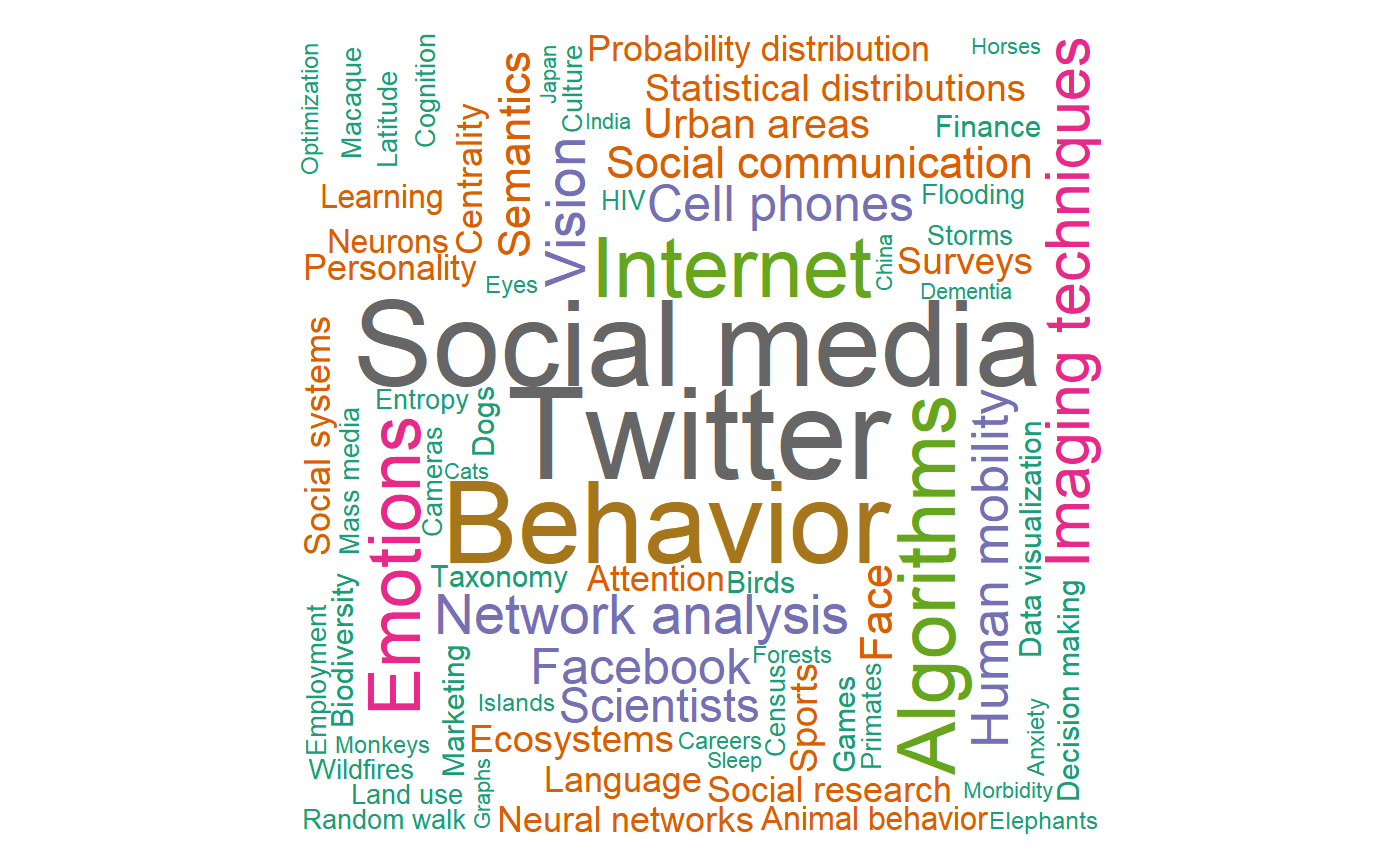
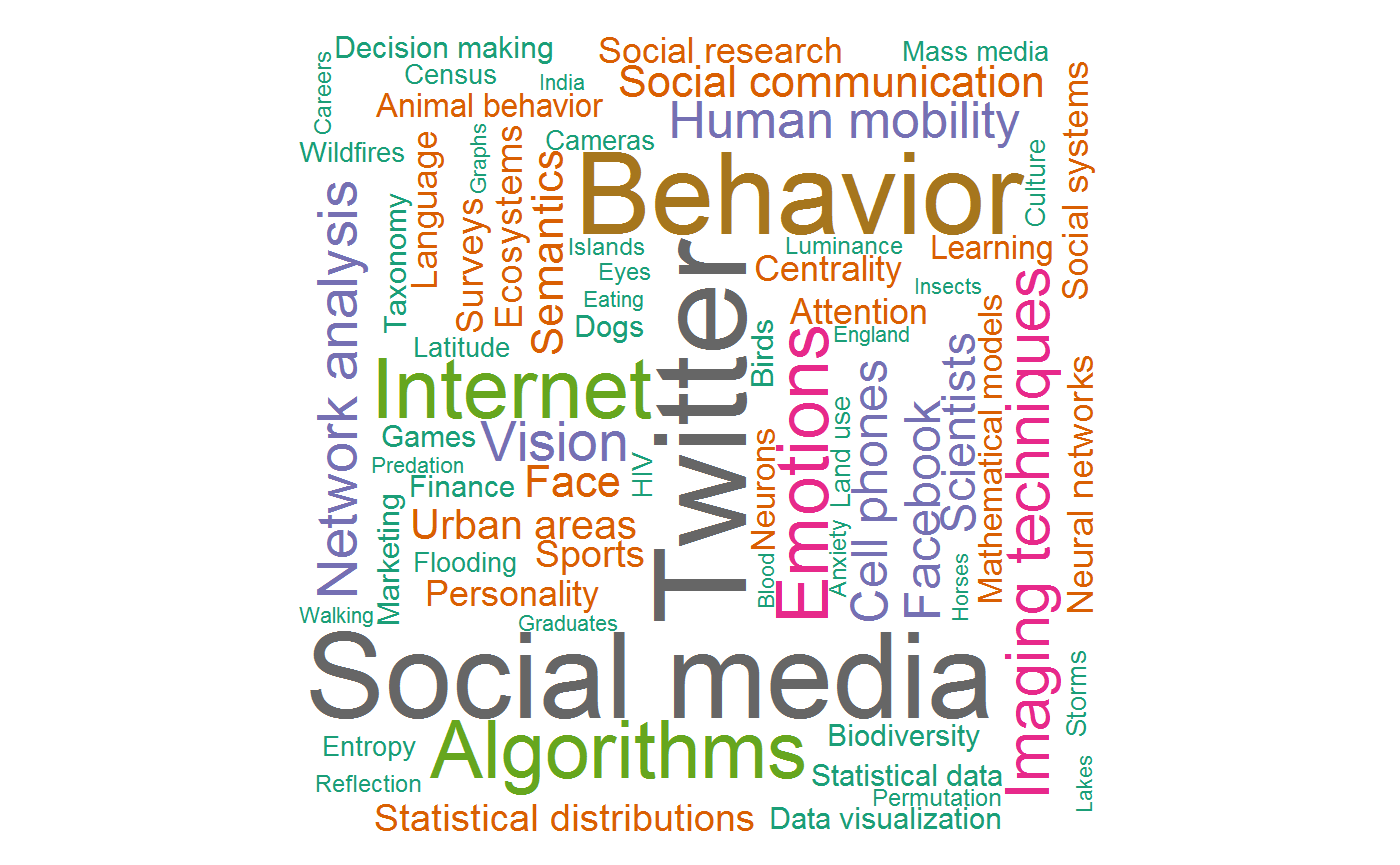
rebuild package site

Changed region(s): [[0.215, 0.0312, 0.7986, 0.9676]]

diff --git a/docs/articles/flickr_in_research.html b/docs/articles/flickr_in_research.html
@@ -81,9 +81,7 @@
   <div class="col-md-9 contents">
     <div class="page-header toc-ignore">
       <h1>Flickr in research</h1>
-                        <h4 class="author">Laura J. Graham</h4>
             
-            <h4 class="date">11/07/2019</h4>
       
       <small class="dont-index">Source: <a href="https://github.com/nfox29/photosearcher/blob/master/vignettes/flickr_in_research.Rmd"><code>vignettes/flickr_in_research.Rmd</code></a></small>
       <div class="hidden name"><code>flickr_in_research.Rmd</code></div>
@@ -101,7 +99,7 @@
 <a class="sourceLine" id="cb1-4" title="4"><span class="st">  </span></a>
 <a class="sourceLine" id="cb1-5" title="5"><span class="st">  </span><span class="kw">mutate</span>(<span class="dt">keywords =</span> <span class="kw">map_chr</span>(subject, get_kw),</a>
 <a class="sourceLine" id="cb1-6" title="6">         <span class="dt">subjects =</span> subject_level_<span class="dv">1</span>)</a></code></pre></div>
-<p>There are a total of 187 papers with the keyword <code>flickr</code> in the PLoS journals.</p>
+<p>There are a total of 188 papers with the keyword <code>flickr</code> in the PLoS journals.</p>
 </div>
 <div id="keyword-wordcloud" class="section level1">
 <h1 class="hasAnchor">
@@ -110,24 +108,31 @@
 <a class="sourceLine" id="cb2-2" title="2"></a>
 <a class="sourceLine" id="cb2-3" title="3"></a>
 <a class="sourceLine" id="cb2-4" title="4"></a>
-<a class="sourceLine" id="cb2-5" title="5">wordcloud<span class="op">::</span><span class="kw"><a href="https://www.rdocumentation.org/packages/wordcloud/topics/wordcloud">wordcloud</a></span>(<span class="dt">words =</span> kws<span class="op">$</span>., <span class="dt">freq =</span> kws<span class="op">$</span>Freq, <span class="dt">min.freq =</span> <span class="dv">1</span>,</a>
+<a class="sourceLine" id="cb2-5" title="5"><span class="kw">wordcloud</span>(<span class="dt">words =</span> kws<span class="op">$</span>., <span class="dt">freq =</span> kws<span class="op">$</span>Freq, <span class="dt">min.freq =</span> <span class="dv">1</span>,</a>
 <a class="sourceLine" id="cb2-6" title="6">          <span class="dt">max.words=</span><span class="dv">200</span>, <span class="dt">random.order=</span><span class="ot">FALSE</span>, <span class="dt">rot.per=</span><span class="fl">0.35</span>, </a>
 <a class="sourceLine" id="cb2-7" title="7">          <span class="dt">colors=</span><span class="kw">brewer.pal</span>(<span class="dv">8</span>, <span class="st">"Dark2"</span>))</a></code></pre></div>
 <p><img src="flickr_in_research_files/figure-html/unnamed-chunk-2-1.png" width="700"></p>
 <p>Subject frequency</p>
-<div class="sourceCode" id="cb3"><pre class="sourceCode r"><code class="sourceCode r"><a class="sourceLine" id="cb3-1" title="1">plos <span class="op">%&gt;%</span><span class="st"> </span><span class="kw">pull</span>(subjects) <span class="op">%&gt;%</span><span class="st"> </span><span class="kw"><a href="https://www.rdocumentation.org/packages/base/topics/paste">paste</a></span>(<span class="dt">collapse =</span> <span class="st">","</span>) <span class="op">%&gt;%</span><span class="st"> </span><span class="kw">str_split</span>(<span class="st">","</span>) <span class="op">%&gt;%</span><span class="st"> </span>table <span class="op">%&gt;%</span><span class="st"> </span>as.data.frame</a></code></pre></div>
-<pre><code>##                                     . Freq
-## 1           Biology and life sciences  155
-## 2   Computer and information sciences  117
-## 3                      Earth sciences   50
-## 4  Ecology and environmental sciences   37
-## 5          Engineering and technology   51
-## 6        Medicine and health sciences   63
-## 7                   People and places   49
-## 8                   Physical sciences   82
-## 9       Research and analysis methods  104
-## 10                     Science policy   18
-## 11                    Social sciences  140</code></pre>
+<div class="sourceCode" id="cb3"><pre class="sourceCode r"><code class="sourceCode r"><a class="sourceLine" id="cb3-1" title="1">plos <span class="op">%&gt;%</span><span class="st"> </span></a>
+<a class="sourceLine" id="cb3-2" title="2"><span class="st">  </span><span class="kw">pull</span>(subjects) <span class="op">%&gt;%</span><span class="st"> </span></a>
+<a class="sourceLine" id="cb3-3" title="3"><span class="st">  </span><span class="kw"><a href="https://www.rdocumentation.org/packages/base/topics/paste">paste</a></span>(<span class="dt">collapse =</span> <span class="st">","</span>) <span class="op">%&gt;%</span><span class="st"> </span></a>
+<a class="sourceLine" id="cb3-4" title="4"><span class="st">  </span><span class="kw">str_split</span>(<span class="st">","</span>) <span class="op">%&gt;%</span><span class="st"> </span></a>
+<a class="sourceLine" id="cb3-5" title="5"><span class="st">  </span>table <span class="op">%&gt;%</span><span class="st"> </span></a>
+<a class="sourceLine" id="cb3-6" title="6"><span class="st">  </span><span class="kw">as_tibble</span>()</a></code></pre></div>
+<pre><code>## # A tibble: 11 x 2
+##    .                                      n
+##    &lt;chr&gt;                              &lt;int&gt;
+##  1 Biology and life sciences            156
+##  2 Computer and information sciences    117
+##  3 Earth sciences                        51
+##  4 Ecology and environmental sciences    38
+##  5 Engineering and technology            51
+##  6 Medicine and health sciences          64
+##  7 People and places                     49
+##  8 Physical sciences                     82
+##  9 Research and analysis methods        105
+## 10 Science policy                        18
+## 11 Social sciences                      140</code></pre>
 </div>
   </div>
 

diff --git a/docs/articles/index.html b/docs/articles/index.html
@@ -78,6 +78,18 @@
 <li>
   <a href="../reference/index.html">Reference</a>
 </li>
+<li class="dropdown">
+  <a href="#" class="dropdown-toggle" data-toggle="dropdown" role="button" aria-expanded="false">
+    Articles
+     
+    <span class="caret"></span>
+  </a>
+  <ul class="dropdown-menu" role="menu">
+    <li>
+      <a href="../articles/flickr_in_research.html">Flickr in research</a>
+    </li>
+  </ul>
+</li>
       </ul>
       
       <ul class="nav navbar-nav navbar-right">
@@ -107,6 +119,7 @@
       <p class="section-desc"></p>
 
       <ul>
+        <li><a href="flickr_in_research.html">Flickr in research</a></li>
         <li><a href="photosearcher.html">photosearcher</a></li>
       </ul>
     </div>

diff --git a/docs/reference/download_images.html b/docs/reference/download_images.html
@@ -86,6 +86,18 @@ downloaded and saved as a .jpeg in a given save directory." />
 <li>
   <a href="../reference/index.html">Reference</a>
 </li>
+<li class="dropdown">
+  <a href="#" class="dropdown-toggle" data-toggle="dropdown" role="button" aria-expanded="false">
+    Articles
+     
+    <span class="caret"></span>
+  </a>
+  <ul class="dropdown-menu" role="menu">
+    <li>
+      <a href="../articles/flickr_in_research.html">Flickr in research</a>
+    </li>
+  </ul>
+</li>
       </ul>
       
       <ul class="nav navbar-nav navbar-right">

diff --git a/docs/reference/location_tags.html b/docs/reference/location_tags.html
@@ -84,6 +84,18 @@ more information on the API method." />
 <li>
   <a href="../reference/index.html">Reference</a>
 </li>
+<li class="dropdown">
+  <a href="#" class="dropdown-toggle" data-toggle="dropdown" role="button" aria-expanded="false">
+    Articles
+     
+    <span class="caret"></span>
+  </a>
+  <ul class="dropdown-menu" role="menu">
+    <li>
+      <a href="../articles/flickr_in_research.html">Flickr in research</a>
+    </li>
+  </ul>
+</li>
       </ul>
       
       <ul class="nav navbar-nav navbar-right">

diff --git a/docs/reference/findPlaces.html b/docs/reference/findPlaces.html
@@ -84,6 +84,18 @@ information on the API method." />
 <li>
   <a href="../reference/index.html">Reference</a>
 </li>
+<li class="dropdown">
+  <a href="#" class="dropdown-toggle" data-toggle="dropdown" role="button" aria-expanded="false">
+    Articles
+     
+    <span class="caret"></span>
+  </a>
+  <ul class="dropdown-menu" role="menu">
+    <li>
+      <a href="../articles/flickr_in_research.html">Flickr in research</a>
+    </li>
+  </ul>
+</li>
       </ul>
       
       <ul class="nav navbar-nav navbar-right">

diff --git a/docs/reference/index.html b/docs/reference/index.html
@@ -78,6 +78,18 @@
 <li>
   <a href="../reference/index.html">Reference</a>
 </li>
+<li class="dropdown">
+  <a href="#" class="dropdown-toggle" data-toggle="dropdown" role="button" aria-expanded="false">
+    Articles
+     
+    <span class="caret"></span>
+  </a>
+  <ul class="dropdown-menu" role="menu">
+    <li>
+      <a href="../articles/flickr_in_research.html">Flickr in research</a>
+    </li>
+  </ul>
+</li>
       </ul>
       
       <ul class="nav navbar-nav navbar-right">

diff --git a/docs/reference/photo_search.html b/docs/reference/photo_search.html
@@ -81,6 +81,18 @@
 <li>
   <a href="../reference/index.html">Reference</a>
 </li>
+<li class="dropdown">
+  <a href="#" class="dropdown-toggle" data-toggle="dropdown" role="button" aria-expanded="false">
+    Articles
+     
+    <span class="caret"></span>
+  </a>
+  <ul class="dropdown-menu" role="menu">
+    <li>
+      <a href="../articles/flickr_in_research.html">Flickr in research</a>
+    </li>
+  </ul>
+</li>
       </ul>
       
       <ul class="nav navbar-nav navbar-right">

diff --git a/docs/reference/related_terms.html b/docs/reference/related_terms.html
@@ -81,6 +81,18 @@
 <li>
   <a href="../reference/index.html">Reference</a>
 </li>
+<li class="dropdown">
+  <a href="#" class="dropdown-toggle" data-toggle="dropdown" role="button" aria-expanded="false">
+    Articles
+     
+    <span class="caret"></span>
+  </a>
+  <ul class="dropdown-menu" role="menu">
+    <li>
+      <a href="../articles/flickr_in_research.html">Flickr in research</a>
+    </li>
+  </ul>
+</li>
       </ul>
       
       <ul class="nav navbar-nav navbar-right">

diff --git a/docs/reference/user_info.html b/docs/reference/user_info.html
@@ -81,6 +81,18 @@
 <li>
   <a href="../reference/index.html">Reference</a>
 </li>
+<li class="dropdown">
+  <a href="#" class="dropdown-toggle" data-toggle="dropdown" role="button" aria-expanded="false">
+    Articles
+     
+    <span class="caret"></span>
+  </a>
+  <ul class="dropdown-menu" role="menu">
+    <li>
+      <a href="../articles/flickr_in_research.html">Flickr in research</a>
+    </li>
+  </ul>
+</li>
       </ul>
       
       <ul class="nav navbar-nav navbar-right">

diff --git a/docs/authors.html b/docs/authors.html
@@ -78,6 +78,18 @@
 <li>
   <a href="reference/index.html">Reference</a>
 </li>
+<li class="dropdown">
+  <a href="#" class="dropdown-toggle" data-toggle="dropdown" role="button" aria-expanded="false">
+    Articles
+     
+    <span class="caret"></span>
+  </a>
+  <ul class="dropdown-menu" role="menu">
+    <li>
+      <a href="articles/flickr_in_research.html">Flickr in research</a>
+    </li>
+  </ul>
+</li>
       </ul>
       
       <ul class="nav navbar-nav navbar-right">

diff --git a/docs/contributing.html b/docs/contributing.html
@@ -78,6 +78,18 @@
 <li>
   <a href="reference/index.html">Reference</a>
 </li>
+<li class="dropdown">
+  <a href="#" class="dropdown-toggle" data-toggle="dropdown" role="button" aria-expanded="false">
+    Articles
+     
+    <span class="caret"></span>
+  </a>
+  <ul class="dropdown-menu" role="menu">
+    <li>
+      <a href="articles/flickr_in_research.html">Flickr in research</a>
+    </li>
+  </ul>
+</li>
       </ul>
       
       <ul class="nav navbar-nav navbar-right">

diff --git a/docs/articles/photosearcher.html b/docs/articles/photosearcher.html
@@ -48,6 +48,18 @@
 <li>
   <a href="../reference/index.html">Reference</a>
 </li>
+<li class="dropdown">
+  <a href="#" class="dropdown-toggle" data-toggle="dropdown" role="button" aria-expanded="false">
+    Articles
+     
+    <span class="caret"></span>
+  </a>
+  <ul class="dropdown-menu" role="menu">
+<li>
+      <a href="../articles/flickr_in_research.html">Flickr in research</a>
+    </li>
+  </ul>
+</li>
       </ul>
 <ul class="nav navbar-nav navbar-right">
 <li>
